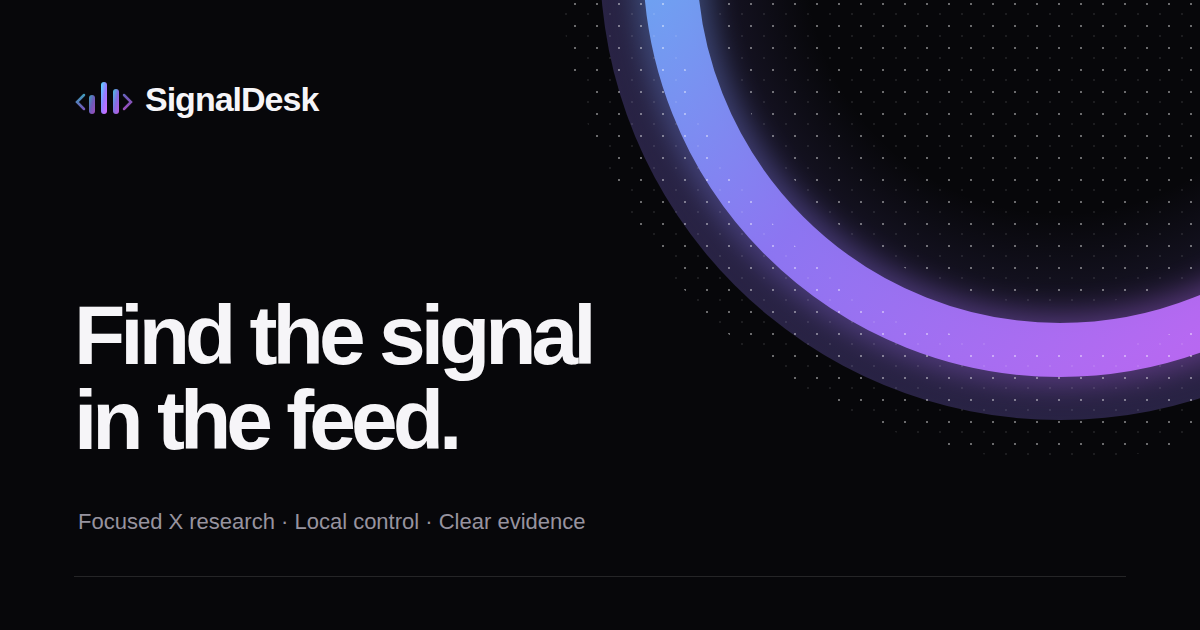
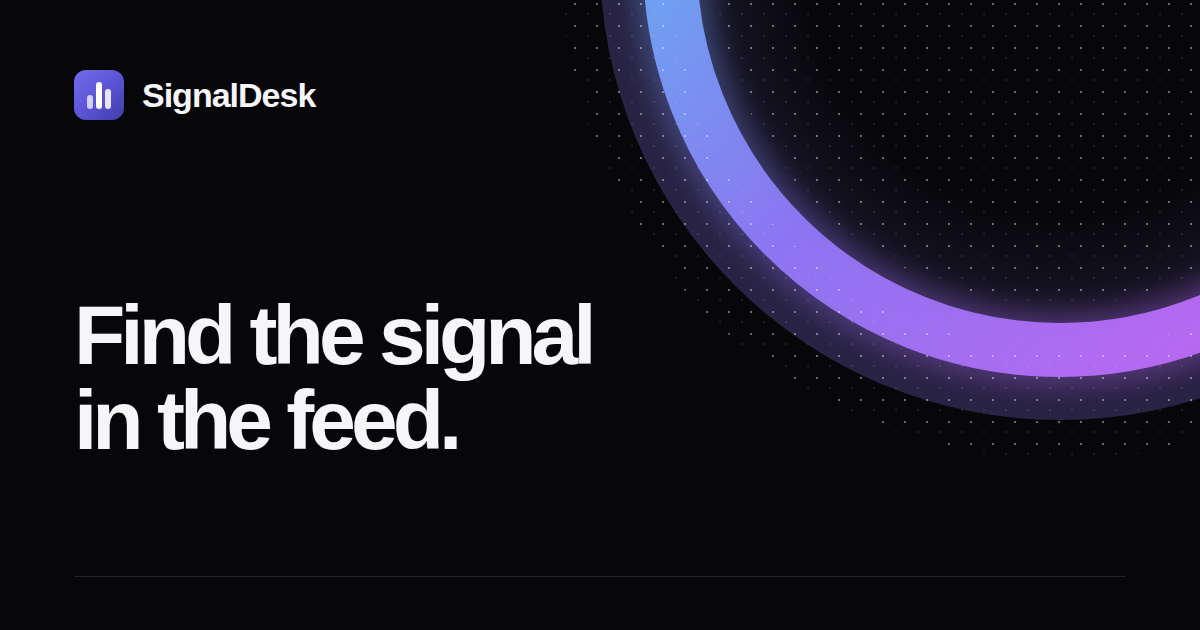
Refine SignalDesk branding

Changed region(s): [[0.0617, 0.0905, 0.2775, 0.2111], [0.0617, 0.8143, 0.4933, 0.8444]]

diff --git a/site/styles.css b/site/styles.css
@@ -43,7 +43,7 @@ button { font: inherit; }
 .signal-field { position: fixed; inset: 0; z-index: -1; overflow: hidden; pointer-events: none; }
 .signal-field::before { position: absolute; inset: 0; content: ""; background: radial-gradient(circle at 62% 62%, rgba(72, 50, 146, .08), transparent 38%); }
 .signal-field svg { width: 100%; height: 100%; transform: translateX(10%); }
-.page-shell { width: min(calc(100% - 80px), var(--max)); min-height: 100vh; margin: 0 auto; display: grid; grid-template-rows: 94px 1fr 72px; }
+.page-shell { width: min(calc(100% - 80px), var(--max)); min-height: 100vh; margin: 0 auto; display: grid; grid-template-rows: 94px 1fr; }
 
 .site-header { display: flex; align-items: center; justify-content: space-between; border-bottom: 1px solid rgba(255,255,255,.09); }
 .brand { display: inline-flex; align-items: center; gap: 10px; font-size: 19px; font-weight: 720; letter-spacing: -.035em; }
@@ -78,26 +78,19 @@ h1 span { color: transparent; background: linear-gradient(90deg, var(--cyan), va
 .release-meta a { flex: 0 0 auto; color: #85818c; }
 .release-meta a:hover { color: #c6c3ca; }
 
-.site-footer { min-width: 0; display: grid; grid-template-columns: auto 1fr auto; align-items: center; gap: 32px; border-top: 1px solid rgba(255,255,255,.09); color: #5d5a63; font: 650 9px/1.4 ui-monospace, SFMono-Regular, Menlo, monospace; letter-spacing: .09em; text-transform: uppercase; }
-.footer-brand { display: flex; align-items: center; gap: 8px; color: #c4c1c9; font-family: Inter, "Segoe UI", sans-serif; font-size: 13px; font-weight: 680; letter-spacing: -.02em; text-transform: none; }
-.footer-brand img { width: 24px; height: 24px; }
-.site-footer > p { margin: 0; text-align: center; }
-.site-footer > span { text-align: right; }
 
 @media (max-width: 900px) {
-  .page-shell { width: calc(100% - 40px); grid-template-rows: 80px 1fr 64px; }
+  .page-shell { width: calc(100% - 40px); grid-template-rows: 80px 1fr; }
   .site-header nav { gap: 18px; }
   .site-header nav a:first-child { display: none; }
   .hero { padding: 55px 0 70px; }
   .hero-copy { width: min(650px, 78vw); }
   .signal-field svg { width: 125%; transform: translateX(3%); }
-  .site-footer > p { display: none; }
-  .site-footer { grid-template-columns: 1fr auto; }
 }
 
 @media (max-width: 600px) {
   body { min-height: 820px; }
-  .page-shell { width: calc(100% - 32px); min-height: 820px; grid-template-rows: 72px 1fr 60px; }
+  .page-shell { width: calc(100% - 32px); min-height: 820px; grid-template-rows: 72px 1fr; }
   .brand { font-size: 17px; }
   .brand img { width: 27px; height: 27px; }
   .site-header nav { gap: 14px; }
@@ -117,8 +110,6 @@ h1 span { color: transparent; background: linear-gradient(90deg, var(--cyan), va
   .download-copy strong { font-size: 10px; }
   .release-meta { align-items: flex-start; flex-direction: column; gap: 8px; }
   .signal-field svg { width: 190%; height: 115%; transform: translate(0, 22%); opacity: .68; }
-  .site-footer { gap: 12px; }
-  .site-footer > span { font-size: 8px; }
 }
 
 @media (prefers-reduced-motion: reduce) {

diff --git a/site/index.html b/site/index.html
@@ -7,7 +7,7 @@
   <meta name="theme-color" content="#07070a">
   <meta name="description" content="SignalDesk is a local-first desktop application for focused research using live X data.">
   <meta property="og:title" content="SignalDesk — Find the signal in the feed">
-  <meta property="og:description" content="Focused X research. Local control. Clear evidence.">
+  <meta property="og:description" content="Local-first desktop research using live X data.">
   <meta property="og:type" content="website">
   <meta property="og:url" content="https://signaldesk.run/">
   <meta property="og:image" content="https://signaldesk.run/assets/social-card.png">
@@ -17,9 +17,9 @@
   <meta property="og:image:alt" content="SignalDesk — Find the signal in the feed.">
   <meta name="twitter:card" content="summary_large_image">
   <meta name="twitter:image" content="https://signaldesk.run/assets/social-card.png">
-  <title>SignalDesk — Focused X research</title>
+  <title>SignalDesk — Find the signal in the feed</title>
   <link rel="canonical" href="https://signaldesk.run/">
-  <link rel="icon" href="/assets/mark.svg" type="image/svg+xml">
+  <link rel="icon" href="/assets/icon.svg" type="image/svg+xml">
   <link rel="stylesheet" href="/styles.css">
   <script src="/app.js" defer></script>
 </head>
@@ -56,7 +56,7 @@
   <div class="page-shell">
     <header class="site-header">
       <a class="brand" href="/" aria-label="SignalDesk home">
-        <img src="/assets/mark.svg" width="30" height="30" alt="">
+        <img src="/assets/icon.svg" width="30" height="30" alt="">
         <span>SignalDesk</span>
       </a>
       <nav aria-label="Main navigation">
@@ -92,11 +92,6 @@
       </div>
     </main>
 
-    <footer class="site-footer">
-      <div class="footer-brand"><img src="/assets/mark.svg" width="24" height="24" alt=""><span>SignalDesk</span></div>
-      <p>Focused X research · Local control · Clear evidence</p>
-      <span>RJH LLC · 2026</span>
-    </footer>
   </div>
 </body>
 </html>
